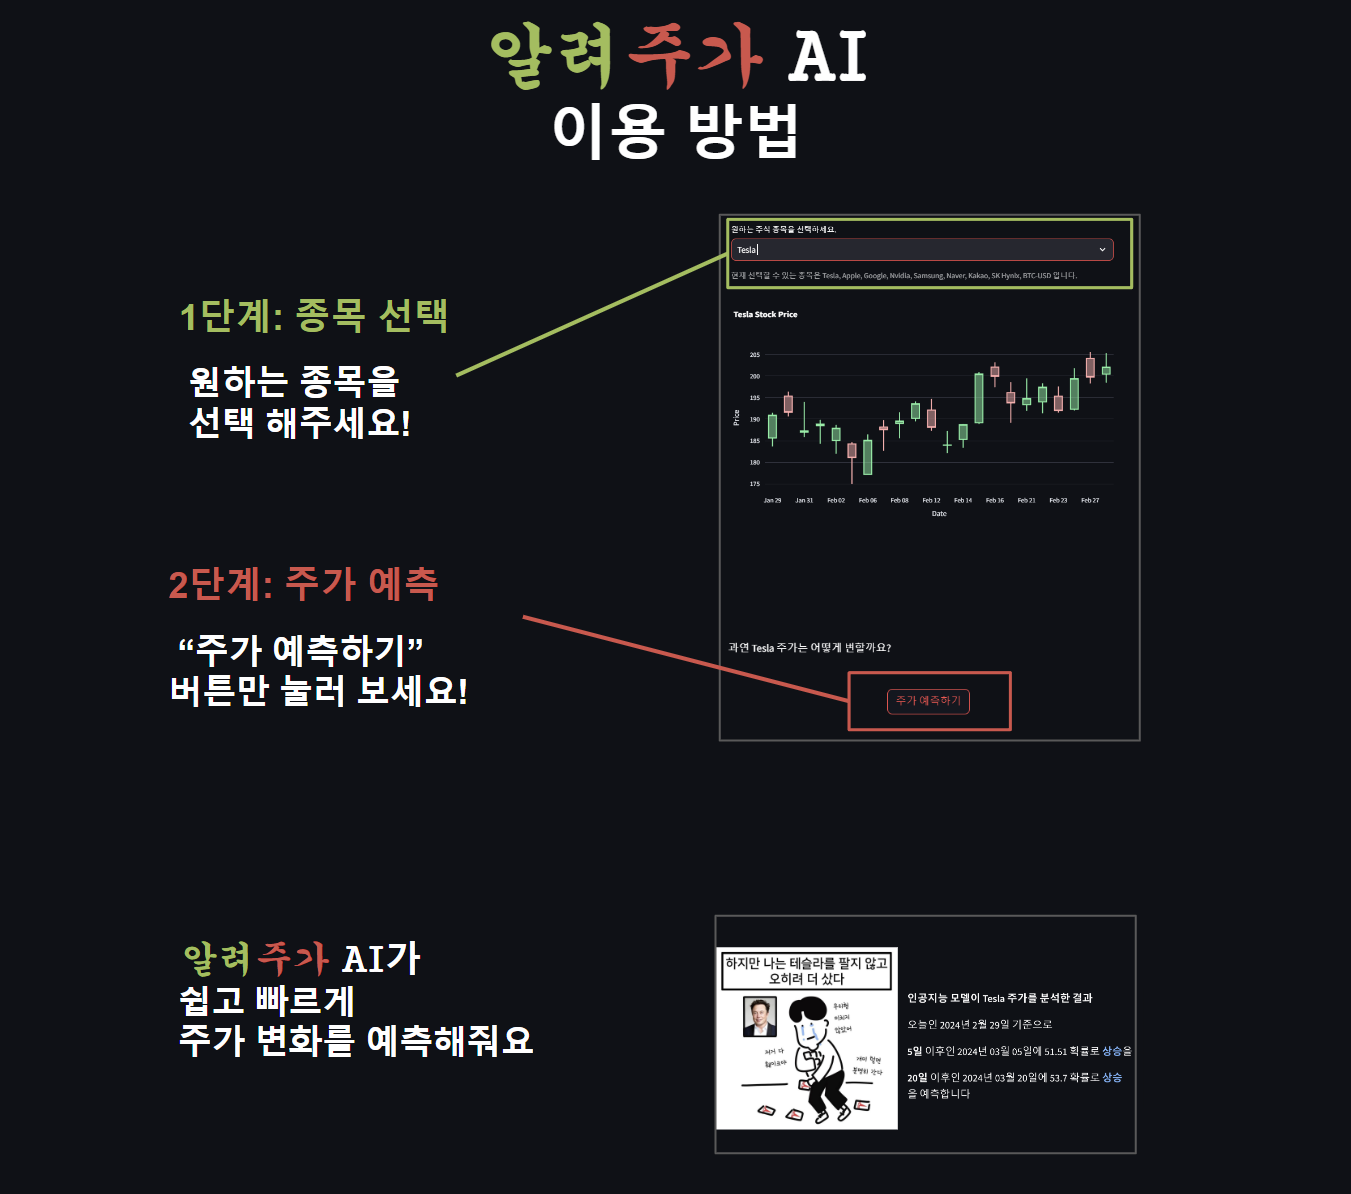
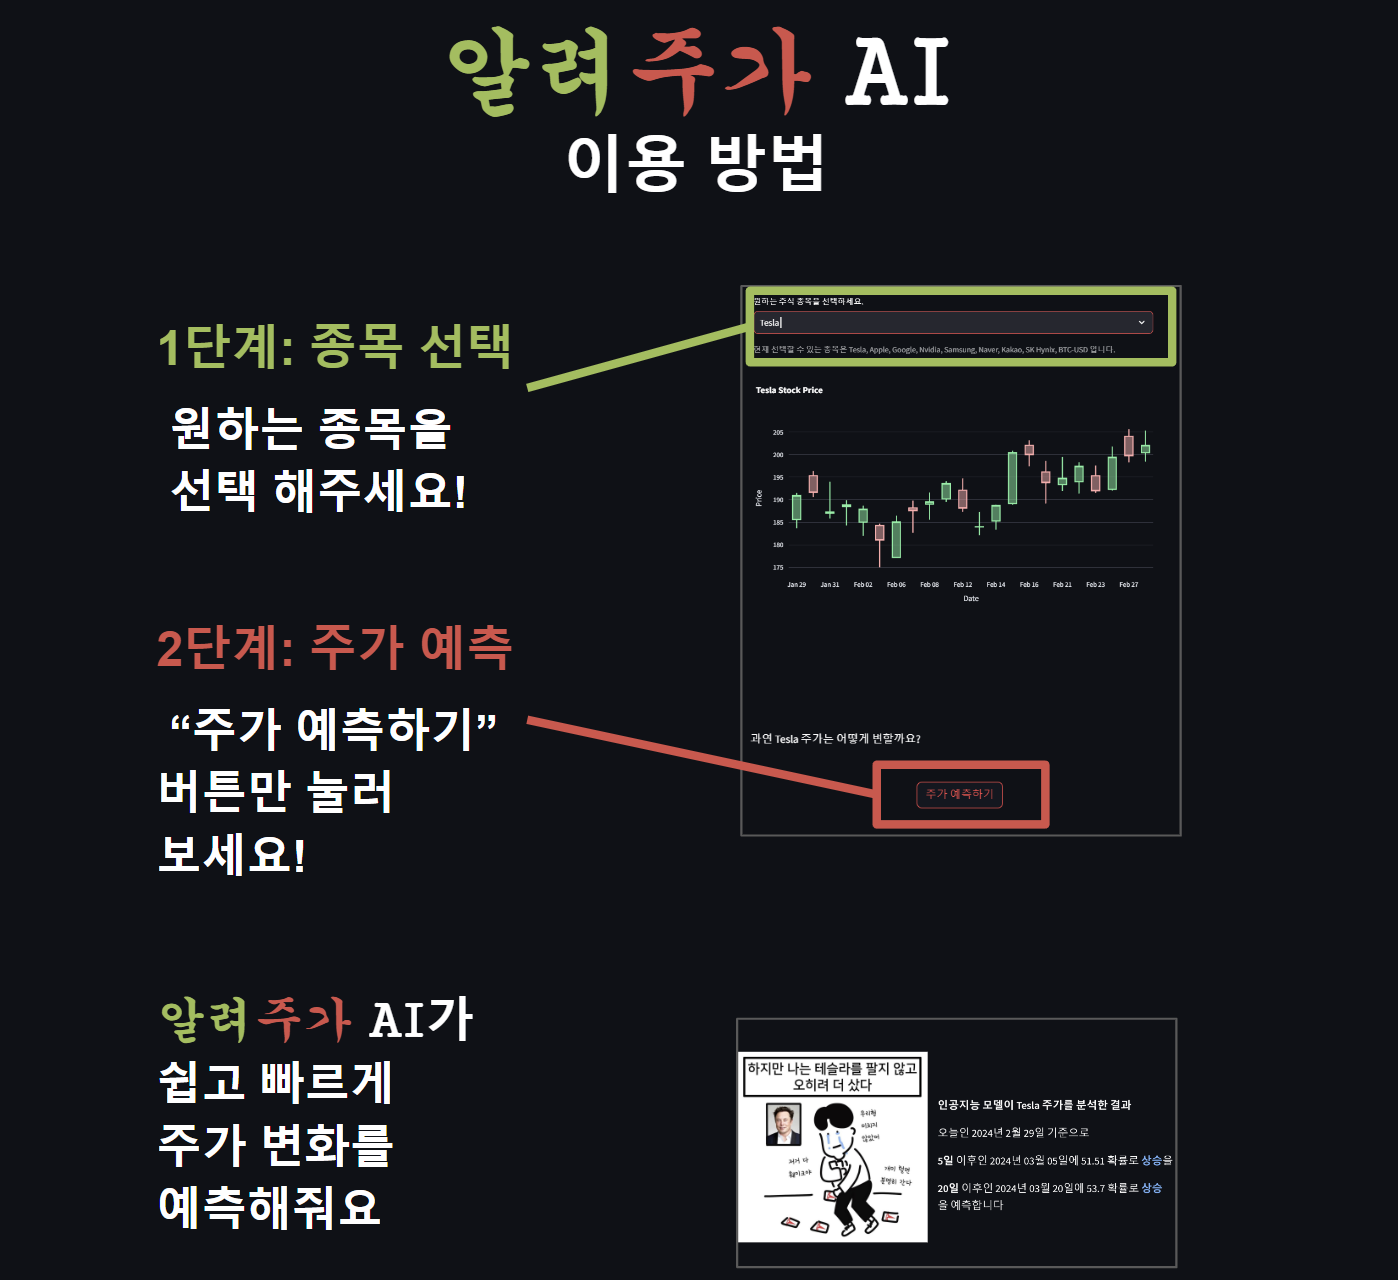
feat: test_6

diff --git a/models/cnn/cnn_st.py b/models/cnn/cnn_st.py
@@ -29,18 +29,7 @@ def cnn_model_inference(company, ticker, period, interval):
     
     # st.header('Stock Predict by CNN Model', divider='grey')
     
-    st.markdown(f'''
-                과연 {company} 주가는 어떻게 변할까요?  \n
-                알려주가AI와 함께 확인해볼까요?
-                ''')
-                    
-
-    st.text('')
-    st.text('')
-    st.text('')
-    st.text('')
-    st.text('')
-    st.text('')
+   
     
     # st.markdown('''이미지 기반 CNN 인공지능 모델로 주가를 예측합니다.
     #             위의 주가 그래프의 마지막 5일 및 20일의 주식 정보를 통해 향후 주가를 예측합니다.  
@@ -48,11 +37,12 @@ def cnn_model_inference(company, ticker, period, interval):
     #             ''')
     st.markdown(
     """
-    ### 2. 주가 예측하기
-    아래의 주가예측하기 버튼을 클릭해서 \n
-    알려주가 AI가 알려주는 주가예측 결과를
-    확인 해보세요!
-    """
+    ### 2. 주가를 예측해봐요!
+
+    과연 {company} 주가는 어떻게 변할까요?  \n
+    아래의 주가예측하기 버튼을 클릭해서 
+    알려주가AI와 함께 확인해볼까요?
+    """.format(company=company)
     )
     # st.text('')
     # st.text('')
@@ -61,10 +51,33 @@ def cnn_model_inference(company, ticker, period, interval):
     
     # st.caption(f"최근 :blue[**{5}**]일 및 :blue[**{20}**]일 동안의 데이터를 통해 :blue[**{5}**]일 및 :blue[**{20}**]일 이후의 :blue[**{company}**] 주가 상승/하락을 예측합니다")
     # cp.caption(f"최근 :blue[**{5}**]일 및 :blue[**{20}**]일 동안의 데이터를 통해 :blue[**{5}**]일 및 :blue[**{20}**]일 이후의 :blue[**{company}**] 주가 상승/하락을 예측합니다")
-    col1, col2, col3 = st.columns([1,1,1])
+    # col1, col2, col3 = st.columns([1,1,1])
 
-    if col2.button('주가 예측하기'):
+    # st.markdown(f'''
+    #             과연 {company} 주가는 어떻게 변할까요?  \n
+    #             알려주가AI와 함께 확인해볼까요?
+    #             ''')
+                    
 
+
+    
+    button_style = """
+                        <style>
+                        div.stButton > button:first-child {
+                            height: 3em;     /* Increase button height */
+                            width: 100%;     /* Set button width to 100% of the column */
+                            font-size: 1.5em; /* Increase font size */
+                        }
+                        </style>
+                    """
+    st.markdown(button_style, unsafe_allow_html=True)
+
+    predict_button = st.button(f'{company} 주가 예측하기')
+
+
+    if predict_button:
+    # if st.button('주가 예측하기', key='predict', help='Click to predict stock prices', **{'class': 'big-button'}):
+        
         # Case-1: 5d_5d
         i_p, o_p =5, 5
         input_period, output_period = time_calc(interval,5), time_calc(interval,5)
@@ -138,10 +151,10 @@ def cnn_model_inference(company, ticker, period, interval):
                                     \n  
                                     **알려주가 AI가 {company} 주가를 분석한 결과**  \n
                                     오늘인 **{today}** 기준으로  \n
-                                    **5일** 뒤인 **{next_5d}**에 \n
+                                    **5일** 뒤인 **{next_5d}**에는 \n
                                     **{percent_5}%** 확신으로 :red[**하락**]을  \n
-                                    **20일** 뒤인 **{next_20d}**에 \n
-                                    **{percent_20}%** 확신으로 :red[**하락**]을 예측합니다''')
+                                    **20일** 뒤인 **{next_20d}**에는 \n
+                                    **{percent_20}%** 확신으로 :red[**하락**]을 예측했어요!''')
                 
                 elif pred_idx_5 == 0 and pred_idx_20 ==1:
                     p_col1.image(img, use_column_width=True)
@@ -150,10 +163,10 @@ def cnn_model_inference(company, ticker, period, interval):
                                     \n
                                     **알려주가 AI가 {company} 주가를 분석한 결과**  \n
                                     오늘인 **{today}** 기준으로  \n
-                                    **5일** 뒤인 **{next_5d}**에 \n
+                                    **5일** 뒤인 **{next_5d}**에는 \n
                                     **{percent_5}%** 확신으로 :red[**하락**]을  \n
-                                    **20일** 뒤인 **{next_20d}**에 \n
-                                    **{percent_20}%** 확신으로 :blue[**상승**]을 예측합니다''')
+                                    **20일** 뒤인 **{next_20d}**에는 \n
+                                    **{percent_20}%** 확신으로 :blue[**상승**]을 예측했어요!''')
                     
                     
                 elif pred_idx_5 == 1 and pred_idx_20 ==0:
@@ -163,10 +176,10 @@ def cnn_model_inference(company, ticker, period, interval):
                                     \n
                                     **알려주가 AI가 {company} 주가를 분석한 결과**  \n
                                     오늘인 {today} 기준으로  \n
-                                    **5일** 뒤인 {next_5d}에 \n
+                                    **5일** 뒤인 {next_5d}에는 \n
                                     **{percent_5}%** 확신으로 :blue[**상승**]을  \n
-                                    **20일** 뒤인 {next_20d}에 \n
-                                    **{percent_20}%** 확신으로 :red[**하락**]을 예측합니다''')
+                                    **20일** 뒤인 {next_20d}에는 \n
+                                    **{percent_20}%** 확신으로 :red[**하락**]을 예측했어요!''')
                     
                 
                 else:
@@ -177,10 +190,10 @@ def cnn_model_inference(company, ticker, period, interval):
                                     \n
                                     **알려주가 AI가 {company} 주가를 분석한 결과**  \n
                                     오늘인 **{today}** 기준으로  \n
-                                    **5일** 이후인 **{next_5d}**에 \n
+                                    **5일** 이후인 **{next_5d}**에는 \n
                                     **{percent_5}%** 확신으로 :blue[**상승**]을  \n
-                                    **20일** 이후인 **{next_20d}**에 \n
-                                    **{percent_20}%** 확신으로 :blue[**상승**]을 예측합니다''')
+                                    **20일** 이후인 **{next_20d}**에는 \n
+                                    **{percent_20}%** 확신으로 :blue[**상승**]을 예측했어요!''')
 
             elif i == 1:
                 pass

diff --git a/streamlit_demo.py b/streamlit_demo.py
@@ -39,11 +39,25 @@ def app():
     st.text('')
 
     st.markdown(
-    """
-    #### 🤖 자, 이제 알려주가AI와 함께 
-    #### 주식 투자의 달인이 되어볼까요?! 
-    """
-    )
+                """
+                <style>
+                .markdown-text-container {
+                    text-align: center;
+                }
+                </style>
+
+                <div class="markdown-text-container">
+                <h3> 준비되셨나요? </h3>
+                <h3>이제 🤖알려주가AI와 함께</h3>
+                <h3>주식 투자의 달인이 되어볼까요?!</h3>
+                </div>
+                """,
+                    unsafe_allow_html=True
+                )
+
+
+
+
     st.text('')
     st.text('')
     st.text('')
@@ -148,7 +162,6 @@ def app():
 
 
     # CNN 모델 예측 결과
-    
     cnn_model_inference(company, ticker, period, interval)
 
     st.text('')
@@ -164,8 +177,9 @@ def app():
     """
      ### 🤖알려주가AI 주가 예측 서비스가 도움이 되셨나요? \n
      아래의 설문을 통해 의견을 남겨주세요! \n
-     잠깐의 시간만 투자해 주신다면 \n
+     단 1분의 시간만 투자해주신다면 \n
      알려주가AI를 더 나은 서비스로 발전시키는데 큰 힘이 됩니다! \n
+     추첨을 통해 스타벅스 기프티콘을 드립니다!
     """
     )
     # 설문
@@ -177,10 +191,10 @@ def app():
             </div>
             <script src="https://forms.app/static/embed.js" type="text/javascript" async defer onload="new formsapp('65dee1274bfcc0164b71b039', 'standard', {'width':'90vw','height':'600px','opacity':0.15000000000000002});">
             </script>
-                        """
+                    """
 
     components.html(html_content, height=600)
-    
+
 
     components.html("""
                         <div style="display: flex; justify-content: center; align-items: center; gap: 20px;">
@@ -223,19 +237,6 @@ def app():
 
 
 
-
-
-
-
-
-
-
-    
-
-    st.text('')
-    st.text('')
-    st.text('')
-    st.text('')
 
 
     st.markdown("""
@@ -300,55 +301,6 @@ def app():
                 </table>
 
                 """
-
-
-
-#     html_code = """
-#     <br/>
-# <table>
-#     <tr height="160px">
-#         <td align="center" width="150px">
-#             <a href="https://github.com/minyun-e"><img height="110px"  src="https://github.com/Eddie-JUB/Portfolio/assets/71426994/6ac5b0db-2f18-4e80-a571-77c0812c0bdc"></a>
-#             <br/>
-#             <a href="https://github.com/minyun-e"><strong>김민윤</strong></a>
-#             <br />
-#         </td>
-#         <td align="center" width="150px">
-#             <a href="https://github.com/2018007956"><img height="110px"  src="https://github.com/Eddie-JUB/Portfolio/assets/71426994/cabba669-dda2-4ead-9f73-00128c0ae175"/></a>
-#             <br/>
-#             <a href="https://github.com/2018007956"><strong>김채아</strong></a>
-#             <br />
-#         </td>
-#         <td align="center" width="150px">
-#             <a href="https://github.com/Eddie-JUB"><img height="110px"  src="https://github.com/Eddie-JUB/Portfolio/assets/71426994/2829c82d-ecc8-49fd-9cb3-ae642fbe7513"/></a>
-#             <br/>
-#             <a href="https://github.com/Eddie-JUB"><strong>배종욱</strong></a>
-#             <br />
-#         </td>
-#         <td align="center" width="150px">
-#             <a href="https://github.com/FinalCold"><img height="110px" src="https://github.com/Eddie-JUB/Portfolio/assets/71426994/fdeb0582-a6f1-4d70-9d08-dc2f9639d7a5"/></a>
-#             <br />
-#             <a href="https://github.com/FinalCold"><strong>박찬종</strong></a>
-#             <br />
-#         </td>
-#         <td align="center" width="150px">
-#             <a href="https://github.com/MalMyeong"><img height="110px" src="https://github.com/Eddie-JUB/Portfolio/assets/71426994/0583f648-d097-44d9-9f05-58102434f42d"/></a>
-#             <br />
-#             <a href="https://github.com/MalMyeong"><strong>조명현</strong></a>
-#             <br />
-#         </td>
-#         <td align="center" width="150px">
-#               <a href="https://github.com/classaen7"><img height="110px"  src="https://github.com/Eddie-JUB/Portfolio/assets/71426994/2806abc1-5913-4906-b44b-d8b92d7c5aa5"/></a>
-#               <br />
-#               <a href="https://github.com/classaen7"><strong>최시현</strong></a>
-#               <br />
-#           </td>
-#     </tr>
-# </table>  
-# <br/>
-# <br/>
-
-# """
 
 
     st.markdown(html_code, unsafe_allow_html=True)
